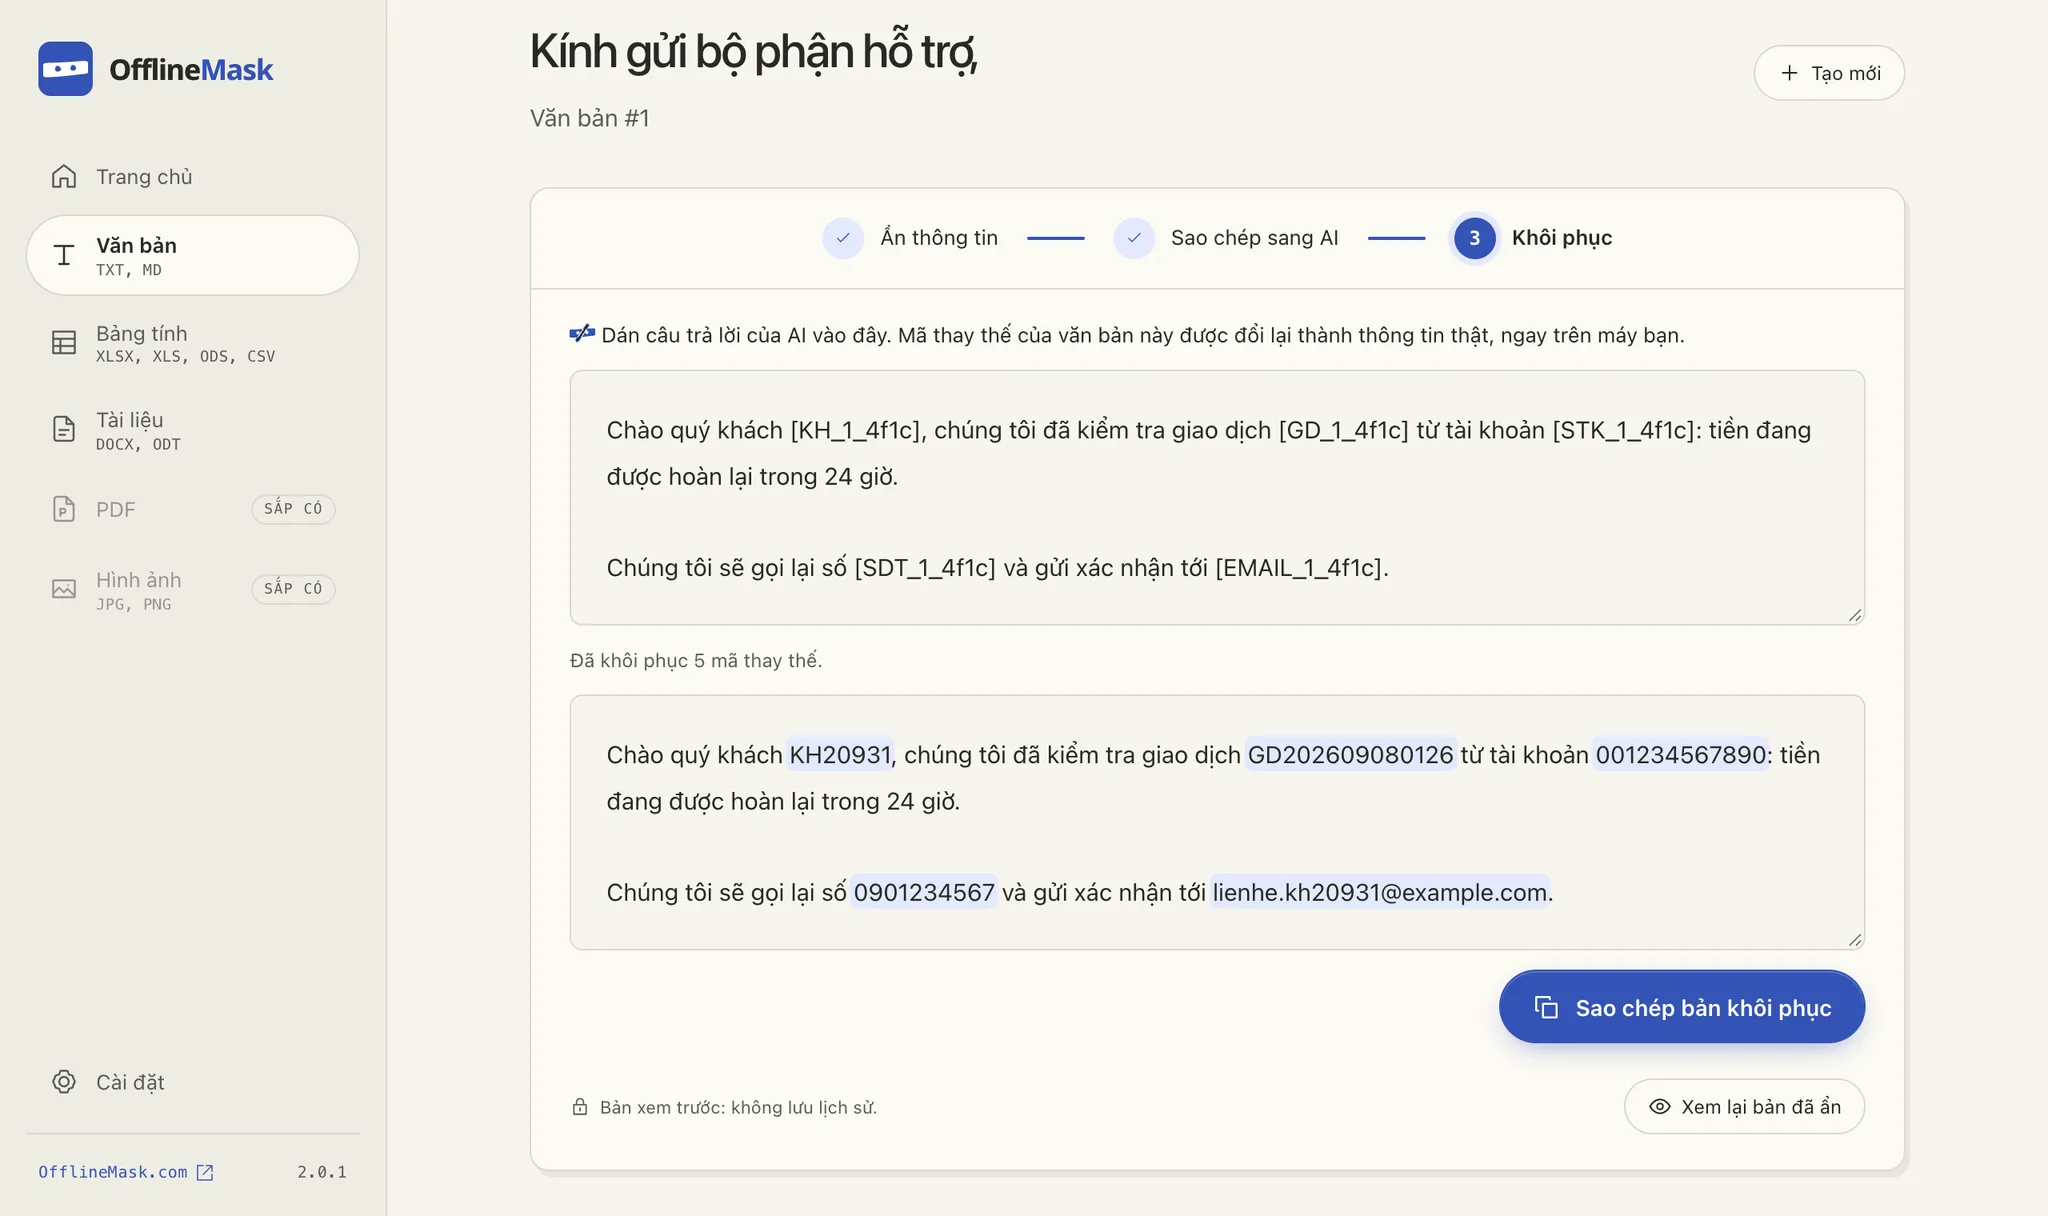
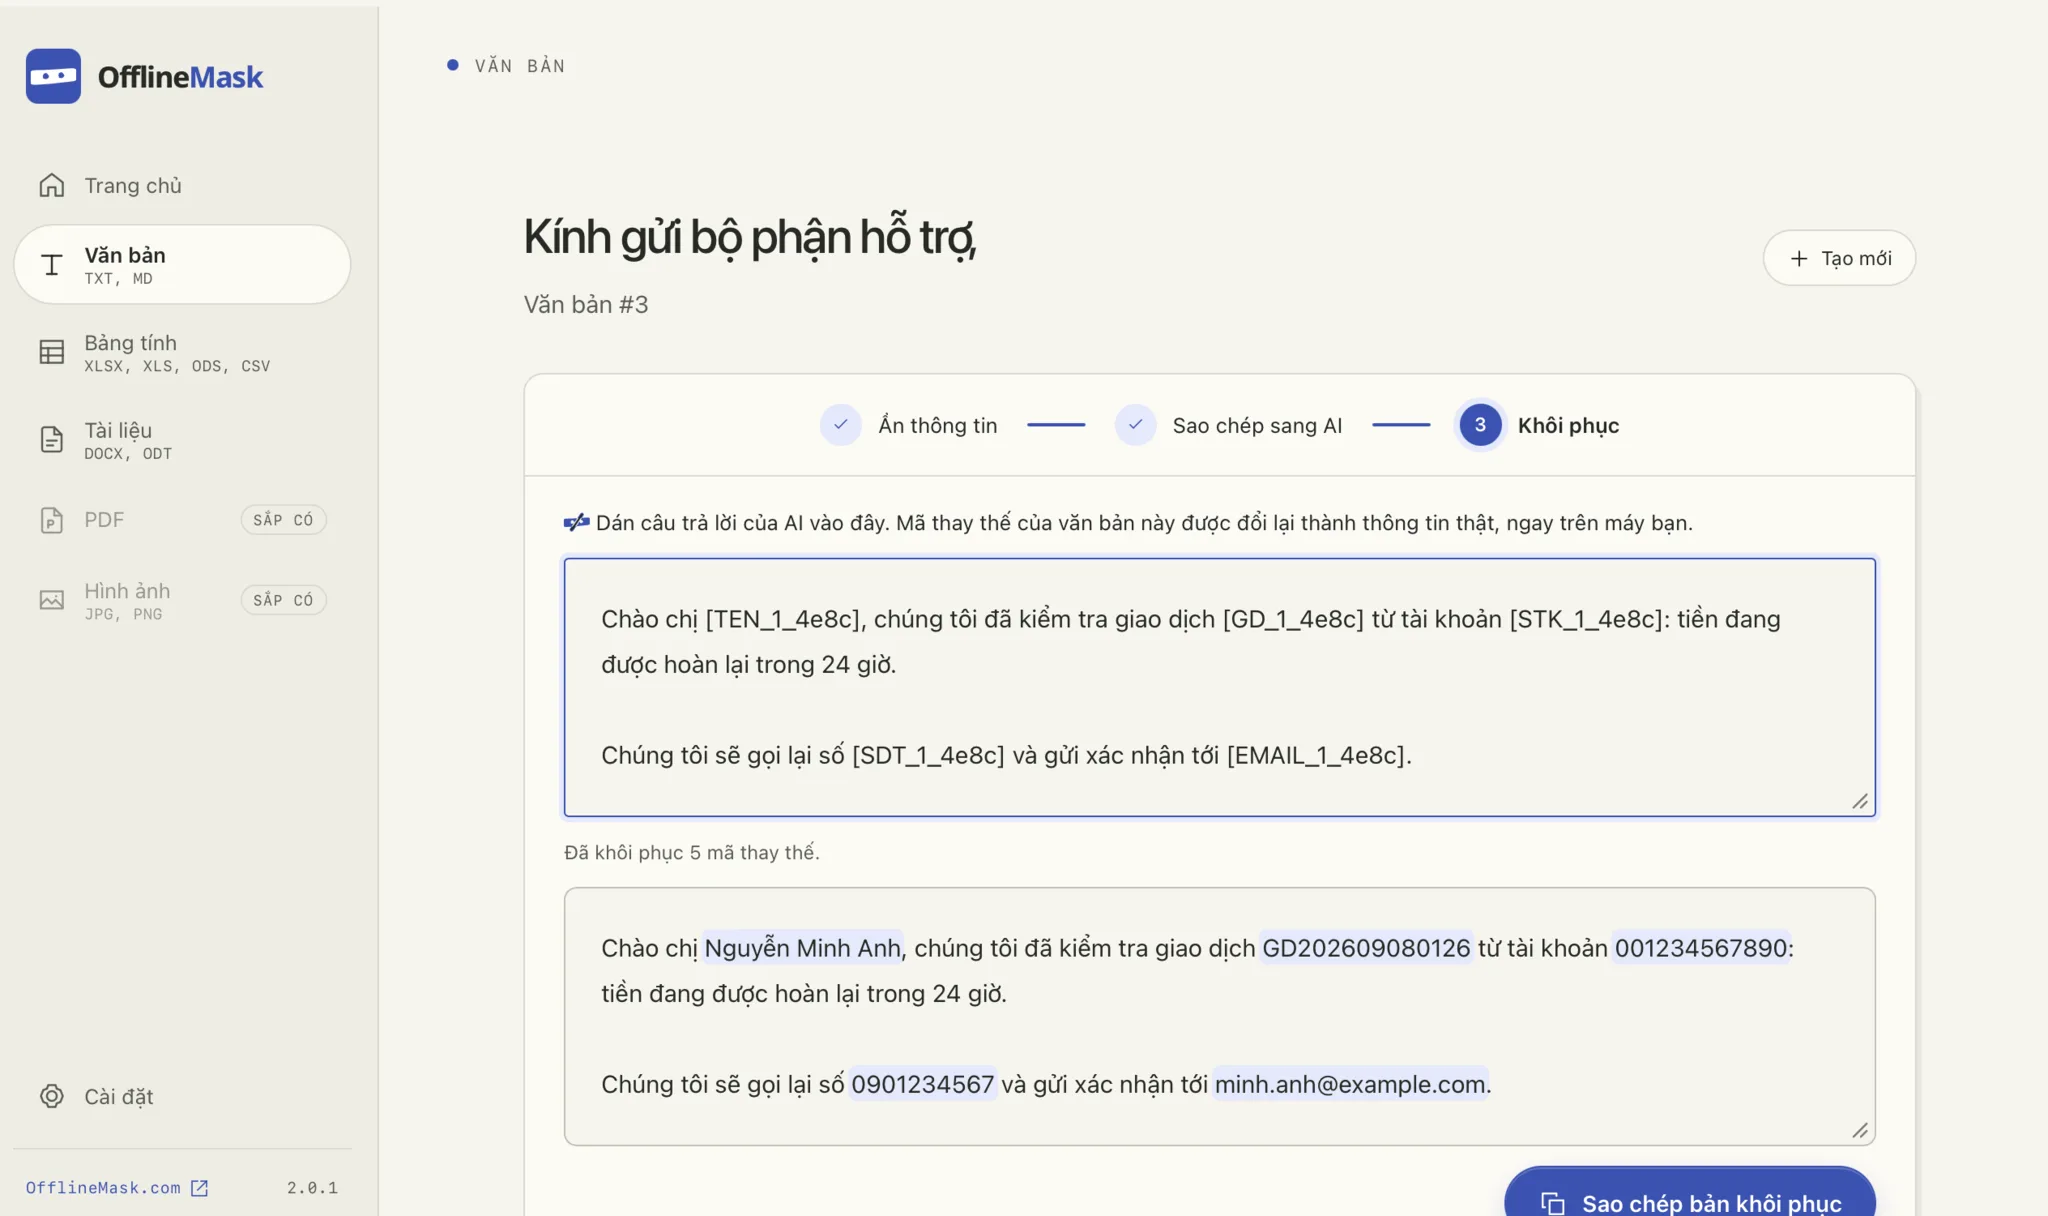
feat(landing): app shots from the desktop app with the name pack, so the name is masked too

diff --git a/landing/product.html b/landing/product.html
@@ -54,16 +54,16 @@
             width="2048"
             height="1216"
             fetchpriority="high"
-            alt="Ứng dụng OfflineMask với một thư mẫu: mã khách hàng, số CCCD, số tài khoản, số điện thoại, email và mã giao dịch đã được thay bằng mã như [STK_1_4f1c]."
+            alt="Ứng dụng OfflineMask với một thư mẫu: họ tên, số tài khoản, số điện thoại, email và mã giao dịch đã được thay bằng mã như [TEN_1_4e8c]."
           />
           <span class="om-scan-line" aria-hidden="true"></span>
         </div>
         <span class="om-sticker" aria-hidden="true" data-om-sticker>Chạy<br />offline</span>
         <span class="om-float om-float-a" aria-hidden="true" data-om-float
-          ><s>001234567890</s><b data-om-code>[STK_1_4f1c]</b></span
+          ><s>001234567890</s><b data-om-code>[STK_1_4e8c]</b></span
         >
         <span class="om-float om-float-b" aria-hidden="true" data-om-float
-          ><s>0901234567</s><b data-om-code>[SDT_1_4f1c]</b></span
+          ><s>0901234567</s><b data-om-code>[SDT_1_4e8c]</b></span
         >
       </figure>
       <p class="om-hero-caption">Ảnh chụp ứng dụng thật · Thư mẫu, thông tin hư cấu</p>
@@ -141,7 +141,7 @@
               width="2048"
               height="1216"
               loading="lazy"
-              alt="Bản gốc trong OfflineMask: mã khách hàng, số tài khoản, số điện thoại và email được tô sáng."
+              alt="Bản gốc trong OfflineMask: họ tên, số tài khoản, số điện thoại và email được tô sáng."
             />
           </li>
           <li data-om-step>
@@ -281,10 +281,10 @@
             <p class="om-side-label"><span class="om-dot"></span> Máy của bạn</p>
             <h3>Bảng đối chiếu</h3>
             <ul class="om-pairs">
-              <li><span>KH20931</span><code>[KH_1_4f1c]</code></li>
-              <li><span>001234567890</span><code>[STK_1_4f1c]</code></li>
-              <li><span>0901234567</span><code>[SDT_1_4f1c]</code></li>
-              <li><span>lienhe.kh20931@example.com</span><code>[EMAIL_1_4f1c]</code></li>
+              <li><span>Nguyễn Minh Anh</span><code>[TEN_1_4e8c]</code></li>
+              <li><span>001234567890</span><code>[STK_1_4e8c]</code></li>
+              <li><span>0901234567</span><code>[SDT_1_4e8c]</code></li>
+              <li><span>minh.anh@example.com</span><code>[EMAIL_1_4e8c]</code></li>
             </ul>
             <p class="om-side-foot">Nằm trên máy bạn. Đặt mật mã nếu muốn lưu lại.</p>
           </div>
@@ -293,9 +293,8 @@
             <p class="om-side-label">Công cụ AI (ChatGPT, Claude, Gemini…)</p>
             <h3>AI chỉ thấy</h3>
             <p class="om-ai-text">
-              Tôi là khách hàng <code>[KH_1_4f1c]</code>, chủ tài khoản <code>[STK_1_4f1c]</code>.
-              Có thể liên hệ qua số <code>[SDT_1_4f1c]</code> hoặc email
-              <code>[EMAIL_1_4f1c]</code>.
+              Tôi là <code>[TEN_1_4e8c]</code>, chủ tài khoản <code>[STK_1_4e8c]</code>. Có thể liên
+              hệ qua số <code>[SDT_1_4e8c]</code> hoặc email <code>[EMAIL_1_4e8c]</code>.
             </p>
             <p class="om-side-foot">
               Bạn tự sao chép hoặc tải lên. OfflineMask không kết nối với AI nào.

diff --git a/landing/og/card.html b/landing/og/card.html
@@ -98,9 +98,13 @@
         background: #efede4;
         border-bottom: 1px solid #d9d9cd;
       }
+      /* Show the step bar and the masked lines rather than the page title. */
       .window img {
         display: block;
         width: 100%;
+        height: calc(100% - 35px);
+        object-fit: cover;
+        object-position: 50% 62%;
       }
     </style>
   </head>
